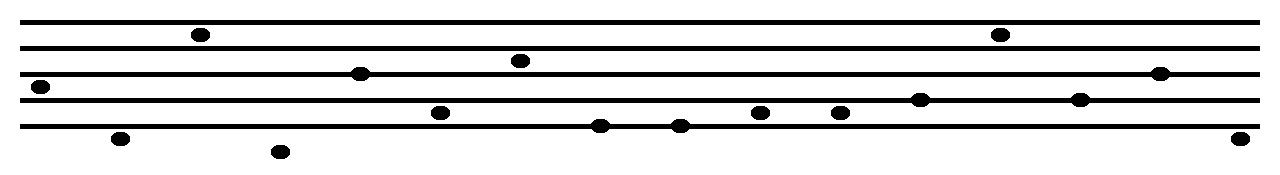
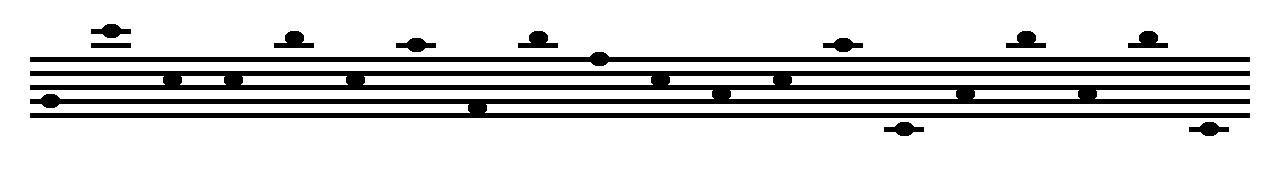
Music sheet creation done

diff --git a/IAEclipse/IA/src/musicSheetCreator/MusicSheetCreator.java b/IAEclipse/IA/src/musicSheetCreator/MusicSheetCreator.java
@@ -12,44 +12,48 @@ import javax.imageio.ImageIO;
 public class MusicSheetCreator {
 	private final int width = 1280;
     private final int height = 175;
-    private final int numLines = 5;
-    private final int numNotes = 20;
-    private final int noteWidth = 20;
-    private final int noteHeight = 15;
+    private int numNotes = 20;   
     
-    
-    private final int margin = 20;
-    private final int lineHeight = 5;
-    
-    private final int diff = (int) (height - margin*2) / (numLines*2);
-    private final int diffXNotes = (int) (width-margin*4) / numNotes + noteWidth;
-    
-    private int[] linePositions = new int[numLines*2];
-    private MusicNote[] notes = new MusicNote[numNotes];
+    private final int margin = 30;
+    private final int lineHeight = 4;
+        
+    private int[] linePositions = new int[15];
+    private MusicNote[] notes =  new MusicNote[numNotes];
     
     public MusicSheetCreator() {
+    	
     	getLinePositions();
-    	generateNotes();
+    	generateNotes(20,15);
     	generateImage();
     }
     
     
-    private void generateNotes() {
+    
+    private void generateNotes(int noteWidth, int noteHeight) {
     	Random rn = new Random();
     	for(int i=0; i < numNotes; i++) {
-    		notes[i] = new MusicNote(i, rn.nextInt(linePositions.length));
-    		System.out.println(notes[i].getPosY());
+    		notes[i] = new MusicNote((this.getSpaceBetweenNotesCenter())*i + noteWidth, rn.nextInt(linePositions.length));
+    		notes[i].setHeight(noteHeight);
+    		notes[i].setWidth(noteWidth);
+    		System.out.println(notes[i].getCenter().getY());
     	}
 	}
 
 
 	private void getLinePositions() {    	
-    	int pos = margin;
+    	int pos = (int) (margin);
     	for(int i = 0; i < linePositions.length; i++) {
     		linePositions[i] = pos;
-    		pos+=diff;
+    		pos+=getSpaceBetweenLines();
     	}
     }
+	
+	private int getSpaceBetweenLines() {
+		return (int) (height - margin*2)/(15);
+	}
+	private int getSpaceBetweenNotesCenter() {
+		return (int) (width-margin*2)/(numNotes);
+	}
     
     private void generateImage() {
     	// Constructs a BufferedImage of one of the predefined image types.
@@ -62,14 +66,47 @@ public class MusicSheetCreator {
         g2d.setColor(Color.white);
         g2d.fillRect(0, 0, width, height);
 
-        // create a circle with black
+       
         g2d.setColor(Color.black);
         for(int i = 0; i < linePositions.length; i+=2) {
-        	g2d.fillRect(margin, linePositions[i], width-margin*2, lineHeight);
+        	if(i >= 4 && i < 13) {
+        		g2d.fillRect(margin, linePositions[i]-1, width-margin*2, lineHeight+1);
+        	}
+        	
         }
+        // create a circle with black
         for(int i = 0; i < notes.length; i++) {
-        	g2d.fillOval(notes[i].getPosX()*diffXNotes+30, linePositions[notes[i].getPosY()]+noteHeight/2, noteWidth, noteHeight);
+        	g2d.fillOval((notes[i].getCenter().getX() - notes[i].getWidth()/2)+margin,
+        			linePositions[notes[i].getCenter().getY()]-notes[i].getHeight()/2, notes[i].getWidth(), notes[i].getHeight());
+        	if(notes[i].getCenter().getY() < 3){
+        		
+        		for(int j = notes[i].getCenter().getY() ; j < 3 ; j++) {
+        			if(j % 2 == 0) {
+        				g2d.fillRect(notes[i].getCenter().getX()-notes[i].getWidth() + margin,
+                			linePositions[j]-1,
+                			notes[i].getWidth()*2, lineHeight+1);
+        			}
+        			
+        		}
+    			
+        	}else if(notes[i].getCenter().getY() > 13) {
+        		for(int j = notes[i].getCenter().getY() ; j > 13 ; j--) {
+        			if(j%2 == 0) {
+        				g2d.fillRect(notes[i].getCenter().getX()-notes[i].getWidth() + margin,
+            				linePositions[j]-1,
+            				notes[i].getWidth()*2, lineHeight+1);
+        			}
+        			
+        		}
+        	}
+    		
+    			
+ 		
         }
+        //System.out.println(i);
+        
+
+        
 
         // Disposes of this graphics context and releases any system resources that it is using. 
         g2d.dispose();

diff --git a/IAEclipse/IA/src/musicSheetCreator/Simbol.java b/IAEclipse/IA/src/musicSheetCreator/Simbol.java
@@ -1,26 +1,37 @@
 package musicSheetCreator;
 
 public abstract class Simbol {
-	private int posX, posY;
+	private VectorXY center;
+	private int width, height;
+	public Simbol(int x, int y) {
+		this.center = new VectorXY(x,y);
+		
+	}
 	
-	public Simbol(int posX, int posY) {
-		this.setPosX(posX);
-		this.setPosY(posY);
+	public VectorXY getCenter() {
+		return center;
+	}
+	public void setCenter(VectorXY center) {
+		this.center = center;
 	}
 
-	public int getPosY() {
-		return posY;
+	public int getHeight() {
+		return height;
 	}
 
-	public void setPosY(int posY) {
-		this.posY = posY;
+	public void setHeight(int height) {
+		this.height = height;
 	}
 
-	public int getPosX() {
-		return posX;
+	public int getWidth() {
+		return width;
 	}
 
-	public void setPosX(int posX) {
-		this.posX = posX;
+	public void setWidth(int width) {
+		this.width = width;
 	}
+	
+	
+
+	
 }

diff --git a/IAEclipse/IA/src/musicSheetCreator/VectorXY.java b/IAEclipse/IA/src/musicSheetCreator/VectorXY.java
@@ -1,0 +1,34 @@
+package musicSheetCreator;
+
+public class VectorXY {
+	private int x;
+	private int y;
+	
+	public VectorXY() {
+		this.setX(0);
+		this.setY(0);
+	}
+	
+	public VectorXY(int x, int y) {
+		this.setX(x);
+		this.setY(y);
+	}
+
+	public int getX() {
+		return x;
+	}
+
+	public void setX(int x) {
+		this.x = x;
+	}
+
+	public int getY() {
+		return y;
+	}
+
+	public void setY(int y) {
+		this.y = y;
+	}
+	
+	
+}
